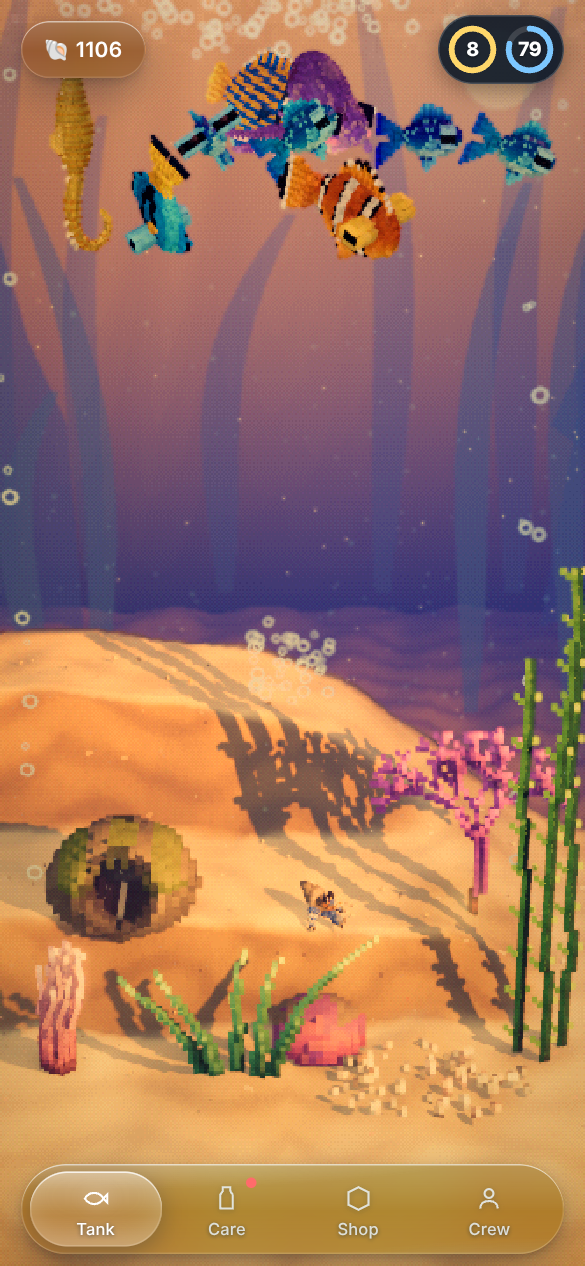
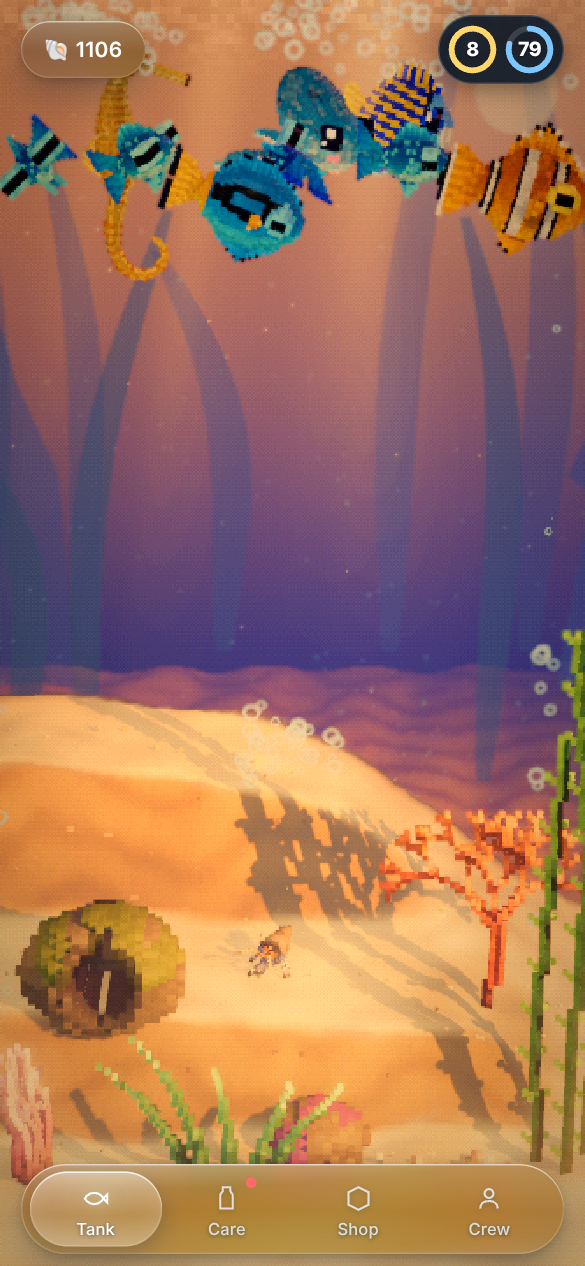
Graphics pass two: distant kelp reads as kelp, stronger sunbeams and sand caustics, brighter rim light, crisper voxel faces, water deepens toward the sand
Claude-Session: https://claude.ai/code/session_01AcX8wdAS6t2Ysits5NhkSb

diff --git a/web/src/w3/stage.js b/web/src/w3/stage.js
@@ -30,7 +30,8 @@ scene.fog = new THREE.Fog(0x2a6d99, 22, 62);
 // gradient water backdrop
 const bgMat = new THREE.ShaderMaterial({ fog: false, depthWrite: false, uniforms: { uTop: { value: new THREE.Color() }, uBot: { value: new THREE.Color() } },
   vertexShader: 'varying vec2 vUv; void main(){ vUv=uv; gl_Position = projectionMatrix*modelViewMatrix*vec4(position,1.); }',
-  fragmentShader: 'varying vec2 vUv; uniform vec3 uTop,uBot; void main(){ gl_FragColor = vec4(mix(uBot,uTop,smoothstep(0.0,1.0,vUv.y)),1.); }' });
+  // bright near the surface, the water's own color through the middle, and deepening to dark where it meets the sand: depth, not a wall
+  fragmentShader: 'varying vec2 vUv; uniform vec3 uTop,uBot; void main(){ vec3 deep = uBot * 0.42; vec3 c = vUv.y < 0.42 ? mix(deep, uBot, smoothstep(0.0, 0.42, vUv.y)) : mix(uBot, uTop, smoothstep(0.42, 1.0, vUv.y)); gl_FragColor = vec4(c, 1.); }' });
 export const bg = new THREE.Mesh(new THREE.PlaneGeometry(90, 32), bgMat); bg.position.set(0, 8, -22); bg.renderOrder = -10; scene.add(bg);
 
 export const env = buildEnvironment(); scene.add(env.root);
@@ -148,9 +149,9 @@ export function applyTod(dt) {
   hemi.color.copy(cur.hemiSky); hemi.groundColor.copy(cur.hemiGnd); hemi.intensity = cur.hemiI * (target === 'night' ? 1 + 0.4 * stage.moonlit : 1); amb.intensity = cur.ambI;
   const murk = stage.murk; scene.fog.color.copy(cur.fog).lerp(murkCol, murk * 0.55); scene.fog.near = cur.fogNear - murk * 9; scene.fog.far = cur.fogFar - murk * 14;
   bgMat.uniforms.uTop.value.copy(cur.bgTop); bgMat.uniforms.uBot.value.copy(cur.bgBot);
-  rim.color.copy(cur.rimCol); rim.intensity = cur.rimI; grade.uniforms.uPool.value = cur.pool; grade.uniforms.uWarm.value = cur.warm; grade.uniforms.uSat.value = cur.sat; grade.uniforms.uVib.value = cur.vib; caustic.tex.offset.x += dt * 0.012; caustic.tex.offset.y += dt * 0.006;      /* (the caustics drift slowly, like light through moving water) */ lamp.intensity = cur.lampI * stage.lantern; { const lg = Math.min(1, cur.lampI / 70) * stage.lantern; halo.material.opacity = lg * 0.55 + (cur.lampI > 1 ? 0.1 : 0) * stage.lantern; pool.material.opacity = lg * 0.85; } lanternGlow.emissiveIntensity = cur.glow;
+  rim.color.copy(cur.rimCol); rim.intensity = cur.rimI * 1.35;      // (a brighter edge: every voxel thing stands off the water) grade.uniforms.uPool.value = cur.pool; grade.uniforms.uWarm.value = cur.warm; grade.uniforms.uSat.value = cur.sat; grade.uniforms.uVib.value = cur.vib; caustic.tex.offset.x += dt * 0.012; caustic.tex.offset.y += dt * 0.006;      /* (the caustics drift slowly, like light through moving water) */ lamp.intensity = cur.lampI * stage.lantern; { const lg = Math.min(1, cur.lampI / 70) * stage.lantern; halo.material.opacity = lg * 0.55 + (cur.lampI > 1 ? 0.1 : 0) * stage.lantern; pool.material.opacity = lg * 0.85; } lanternGlow.emissiveIntensity = cur.glow;
   shafts.mat.uniforms.uI.value = cur.shaft; shafts.mat.uniforms.uCol.value.copy(cur.sunCol).lerp(tmpC.set(0x88c8ff), 0.25);
-  beams.mat.uniforms.uI.value = cur.shaft * 2.2; beams.mat.uniforms.uCol.value.copy(cur.sunCol).lerp(tmpC.set(0xfff4d0), 0.4);
+  beams.mat.uniforms.uI.value = cur.shaft * 3.0; beams.mat.uniforms.uCol.value.copy(cur.sunCol).lerp(tmpC.set(0xfff4d0), 0.4);
   surf.mat.uniforms.uI.value = cur.surf; surf.mat.uniforms.uCol.value.copy(cur.sunCol);
   stage.settleK += (stage.settle - stage.settleK) * Math.min(1, dt * 0.6); stage.dimK += (stage.dim - stage.dimK) * Math.min(1, dt * 1.6); renderer.toneMappingExposure = cur.exposure * (1 - 0.14 * stage.settleK) * (1 - 0.3 * stage.dimK); bloom.strength = cur.bloom;
   if (stage.dimK > 0.001) { shafts.mat.uniforms.uI.value *= 1 - stage.dimK; beams.mat.uniforms.uI.value *= 1 - stage.dimK; surf.mat.uniforms.uI.value *= 1 - 0.7 * stage.dimK; }      // lights down: the sun's shafts fade, the spot stays bright

diff --git a/web/src/w3/env.js b/web/src/w3/env.js
@@ -256,7 +256,7 @@ export function buildEnvironment() {
   const WATER = new THREE.Color(0x8fb4c8), DEEP = new THREE.Color(0x1d7894), KELP = new THREE.Color(0x2f9a8c); let backKey = 'candy', backLight = 1;
   const paintBack = () => {
     const pal = BACK[backKey] ?? BACK.candy; pal.forEach((c, i) => { const m = backdrop.userData.mats[i]; if (m) m.color.setHex(c).lerp(DEEP, 0.72 + i * 0.06).multiplyScalar(backLight); });      // the far dunes are mostly the color of deep water, with only a hint of the chosen backdrop
-    backdrop.userData.kelp.forEach((m, i) => m.color.setHex(pal[1]).lerp(KELP, 0.62).lerp(WATER, i < 6 ? 0.18 : 0.42).multiplyScalar(backLight * (i < 6 ? 0.92 : 1)));
+    backdrop.userData.kelp.forEach((m, i) => m.color.setHex(pal[1]).lerp(KELP, 0.78).lerp(WATER, i < 6 ? 0.08 : 0.3).multiplyScalar(backLight * (i < 6 ? 0.78 : 0.9)));      // (darker and greener: distant kelp, not pale smears)
     backdrop.userData.rock.forEach((m) => m.color.setHex(pal[2]).lerp(WATER, 0.5).multiplyScalar(backLight * 0.9));
   };
   const setStyle = (floor = 'sand', back = 'candy') => {

diff --git a/web/src/main.js b/web/src/main.js
@@ -1665,7 +1665,7 @@ function frame(now) {
 function frameBody(now) {
   const dt = Math.min(0.05, (now - last) / 1000); last = now; const t = now / 1000;
   swayTime.value = t; cTick += dt; if (cTick > 0.05) { cTick = 0; stg.caustic.update(t * 0.7); }
-  const lit = rain.light(t); stg.beams.update(t, lit); stg.env.setCaustic(stg.caustic.tex, t, safeNoCaustic ? 0 : (0.05 + 0.17 * Math.min(1, cur.sunI / 10)) * (stg.cur.shaft > 0.18 ? 1 : 0.5) * lit);      // light on the sand follows the sun
+  const lit = rain.light(t); stg.beams.update(t, lit); stg.env.setCaustic(stg.caustic.tex, t, safeNoCaustic ? 0 : (0.08 + 0.26 * Math.min(1, cur.sunI / 10)) * (stg.cur.shaft > 0.18 ? 1 : 0.5) * lit);      // light on the sand follows the sun
   if (game.state) stage.murk += (Math.max(0, (0.8 - game.state.water) / 0.8) - stage.murk) * Math.min(1, dt * 1.5);      // (fresh-ish water stays clear: the murk comes in only once the water is really due)
   stg.applyTod(dt);
   if (focus) {

diff --git a/web/src/w3/voxshade.js b/web/src/w3/voxshade.js
@@ -16,7 +16,7 @@ export function voxShading(mat, { sway = false, boost = 1 } = {}) {
     sh.vertexShader = sh.vertexShader.replace('#include <common>', `#include <common>
       attribute vec3 aN; ${sway ? `attribute vec2 aSw; uniform float uTime; uniform vec4 uPush[${PUSH_N}]; uniform vec4 uHold[${HOLD_N}];` : ''}`)
       .replace('#include <beginnormal_vertex>', `#include <beginnormal_vertex>
-        if (dot(aN, aN) > 0.01) objectNormal = normalize(mix(objectNormal, aN, 0.82));`);
+        if (dot(aN, aN) > 0.01) objectNormal = normalize(mix(objectNormal, aN, 0.72));      // (a little more of the cube in each face: the voxels read)`);
     if (sway) sh.vertexShader = sh.vertexShader.replace('#include <project_vertex>', `
       float swk = aSw.x * aSw.x; float swp = aSw.y;
         vec4 mv = vec4(transformed, 1.0), cv = vec4(0.0, 0.0, 0.0, 1.0);
